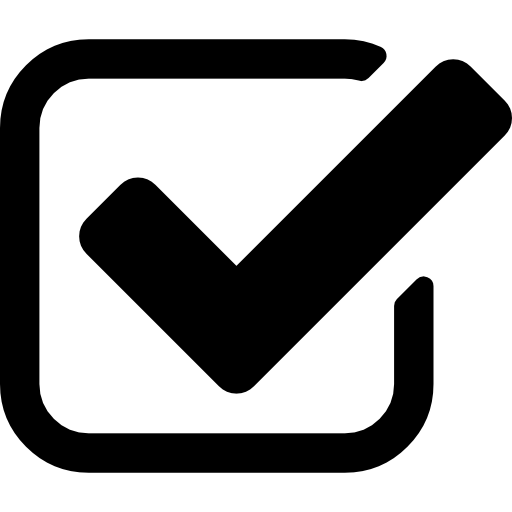
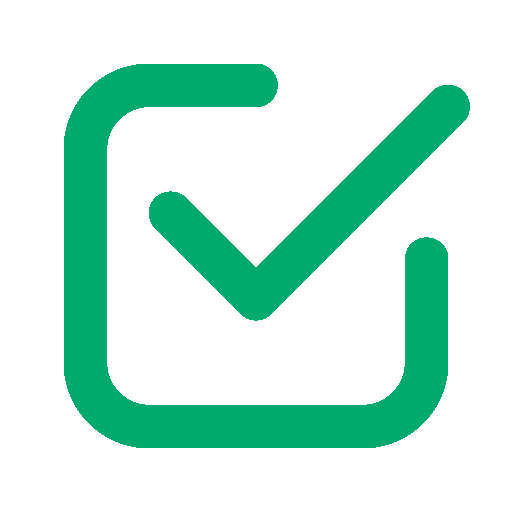
Mudança de cores e remoção de animação

diff --git a/src/screens/Home/styles.ts b/src/screens/Home/styles.ts
@@ -21,6 +21,7 @@ export const styles = StyleSheet.create({
   appName: {
     fontSize: 20,
     fontWeight: "bold",
+    color: "#313131",
   },
   tabs: {
     marginTop: 15,
@@ -39,7 +40,7 @@ export const styles = StyleSheet.create({
     alignItems: "center",
   },
   activeTab: {
-    backgroundColor: "#000",
+    backgroundColor: "#5ea872",
   },
   tabText: {
     color: "#aaa",
@@ -71,6 +72,7 @@ export const styles = StyleSheet.create({
   title: {
     fontSize: 16,
     fontWeight: 'bold',
+    color: "#313131",
   },
   horarioTitulo: {
     fontSize: 13,
@@ -93,7 +95,7 @@ export const styles = StyleSheet.create({
     position: "absolute",
     bottom: 20,
     right: 20,
-    backgroundColor: "#000",
+    backgroundColor: "#5ea872",
     borderRadius: 30,
     padding: 15,
   },
@@ -114,4 +116,20 @@ export const styles = StyleSheet.create({
     justifyContent: "space-between",
     alignItems: "center",
   },
+  congratulationsContainer: {
+    alignItems: "center",
+    justifyContent: "center",
+    marginTop: 20,
+    backgroundColor: "#f0f8ff", // cor de fundo suave para destacar
+    padding: 10,
+    borderRadius: 10,
+    marginHorizontal: 20,
+  },
+  
+  congratulationsText: {
+    fontSize: 18,
+    color: "#28a745", // cor verde para dar a sensação de sucesso
+    fontWeight: "bold",
+  }
+  
 });

diff --git a/src/screens/Home/Home.tsx b/src/screens/Home/Home.tsx
@@ -152,7 +152,7 @@ export default function Home({ navigation }: Props) {
           source={require("../../../assets/check.png")}
           style={styles.logo}
         />
-        <Text style={styles.appName}>eu esqueci?</Text>
+        <Text style={styles.appName}>tasksHere</Text>
       </View>
 
       <View style={styles.tabs}>
@@ -166,7 +166,8 @@ export default function Home({ navigation }: Props) {
               activeTab === "Ativos" ? styles.activeTabText : null,
             ]}
           >
-            Ativos
+            ativos ({filteredLembretes.filter((item) => !item.concluido).length}
+            )
           </Text>
         </TouchableOpacity>
 
@@ -180,7 +181,7 @@ export default function Home({ navigation }: Props) {
               activeTab === "Todos" ? styles.activeTabText : null,
             ]}
           >
-            Todos
+            todos
           </Text>
         </TouchableOpacity>
       </View>
@@ -195,7 +196,9 @@ export default function Home({ navigation }: Props) {
 
       <TouchableOpacity
         style={styles.floatingButton}
-        onPress={() => navigation.navigate("AdicionarLembrete")}
+        onPress={() => {
+          navigation.navigate("AdicionarLembrete");
+        }}
       >
         <Icon name="add-outline" size={30} color="#fff" />
       </TouchableOpacity>

diff --git a/src/screens/AdicionarLembrete/AdicionarLembrete.tsx b/src/screens/AdicionarLembrete/AdicionarLembrete.tsx
@@ -83,7 +83,7 @@ export default function AdicionarLembrete({ navigation, route }: Props) {
         style={styles.input}
         value={titulo}
         onChangeText={setTitulo}
-        placeholder="Digite o título"
+        placeholder="digite o título"
         placeholderTextColor="#aaa"
       />
 
@@ -92,7 +92,7 @@ export default function AdicionarLembrete({ navigation, route }: Props) {
         style={styles.input}
         value={icone}
         onChangeText={setIcone}
-        placeholder="Escolha um emoji"
+        placeholder="escolha um emoji  📝"
         placeholderTextColor="#aaa"
         keyboardType="default"
       />
@@ -111,7 +111,7 @@ export default function AdicionarLembrete({ navigation, route }: Props) {
         ))}
       </View>
       <TouchableOpacity style={styles.saveButton} onPress={handleSave}>
-        <Text style={styles.saveButtonText}>Salvar</Text>
+        <Text style={styles.saveButtonText}>salvar</Text>
       </TouchableOpacity>
     </View>
   );

diff --git a/src/screens/AdicionarLembrete/styles.ts b/src/screens/AdicionarLembrete/styles.ts
@@ -55,7 +55,7 @@ export const styles = StyleSheet.create({
       color: "#555",
     },
     saveButton: {
-      backgroundColor: "#000",
+      backgroundColor: "#5ea872",
       paddingVertical: 15,
       borderRadius: 10,
       alignItems: "center",
